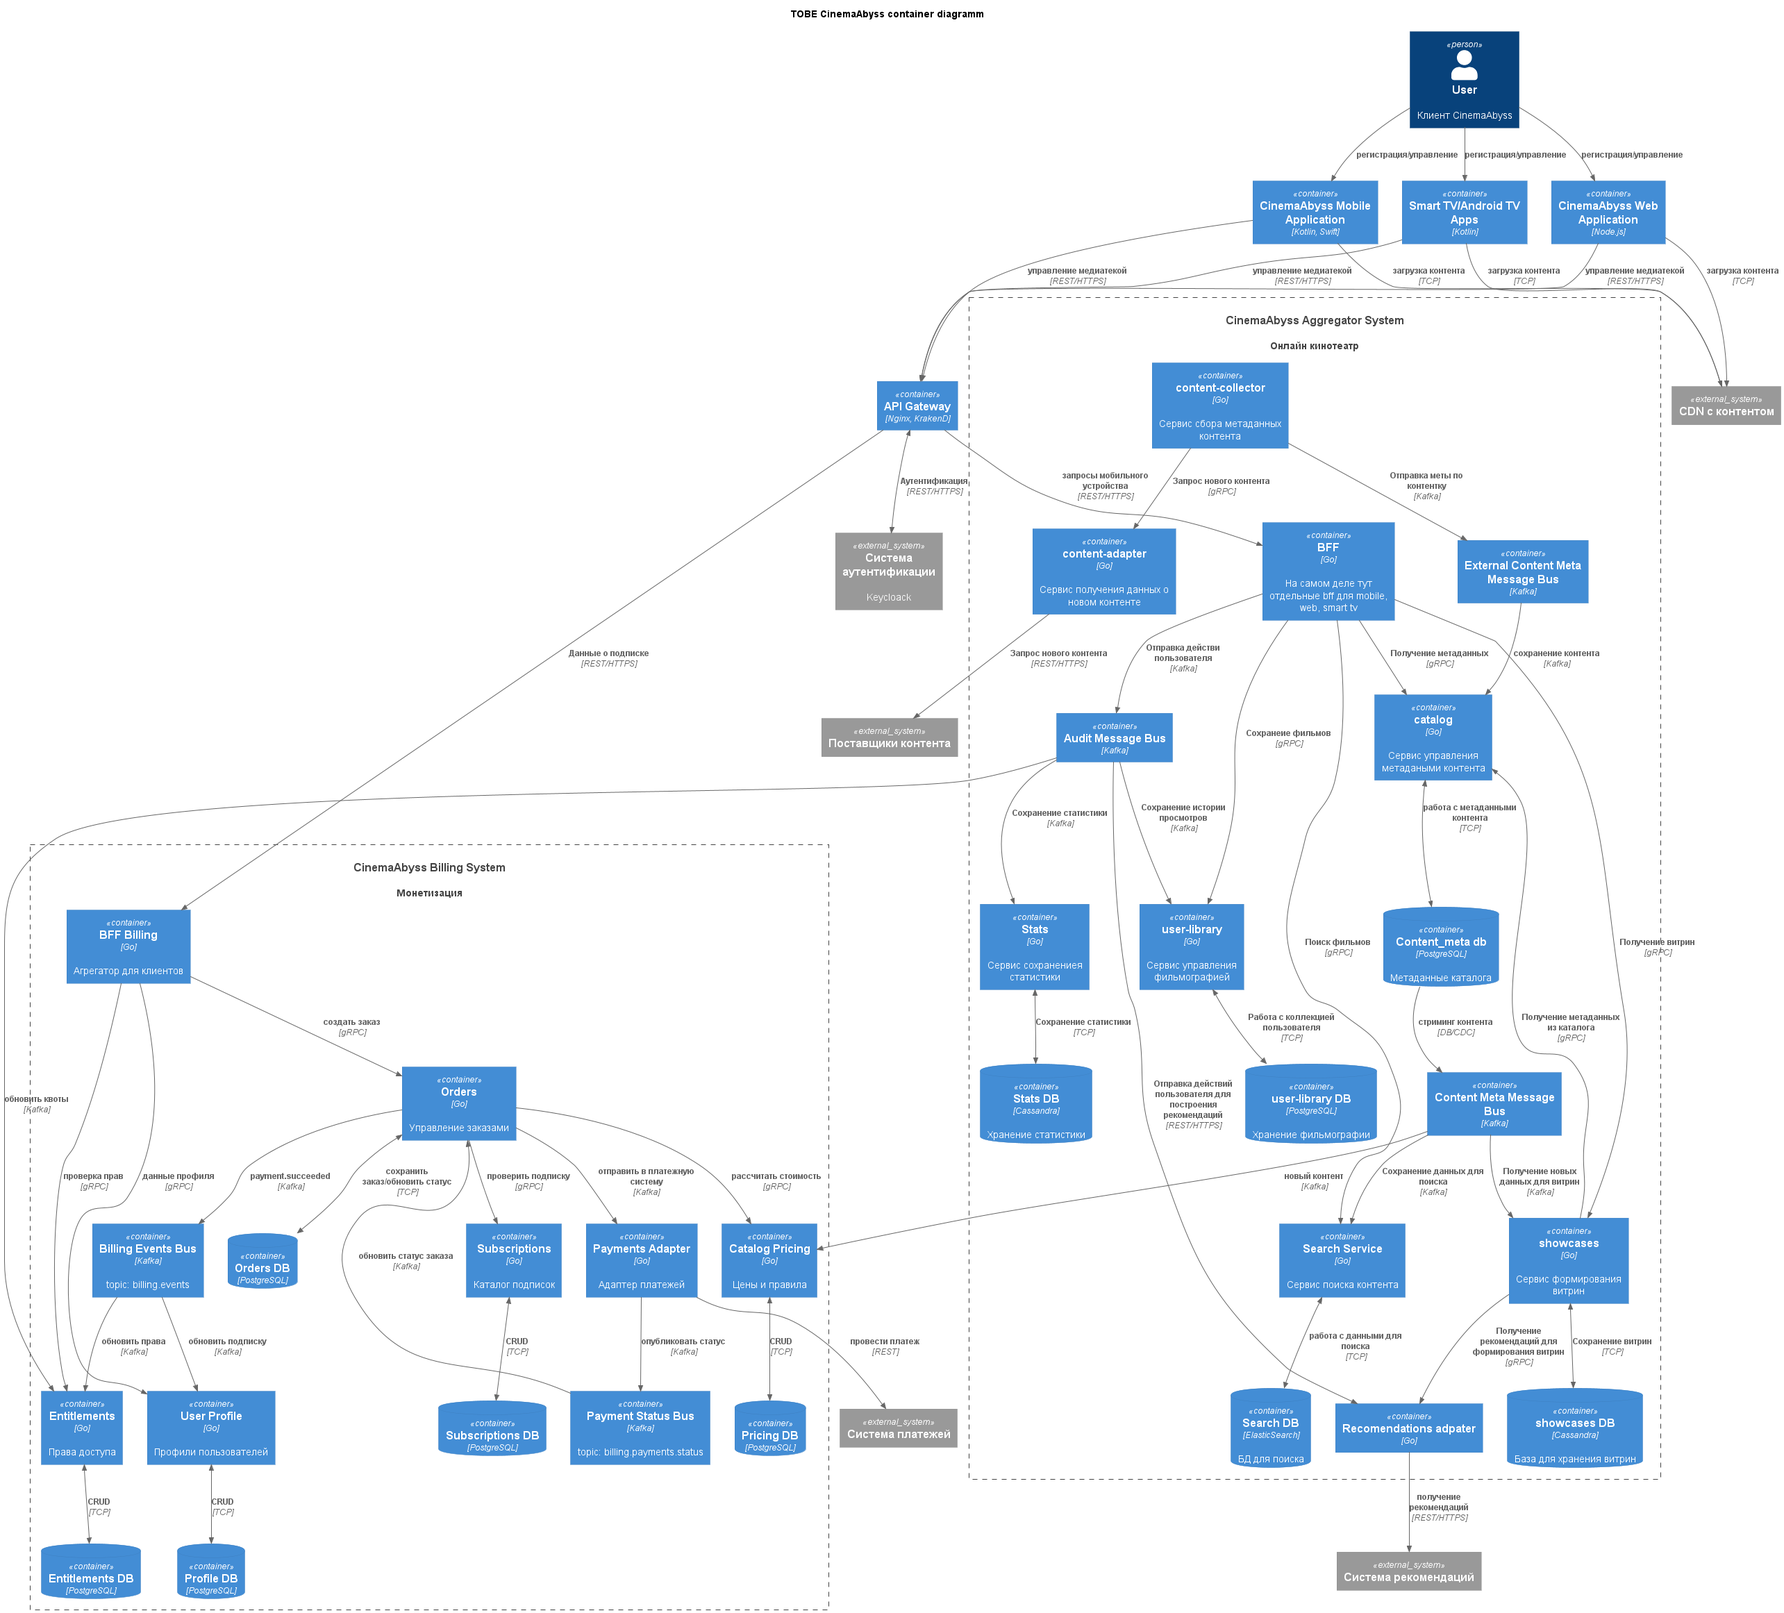
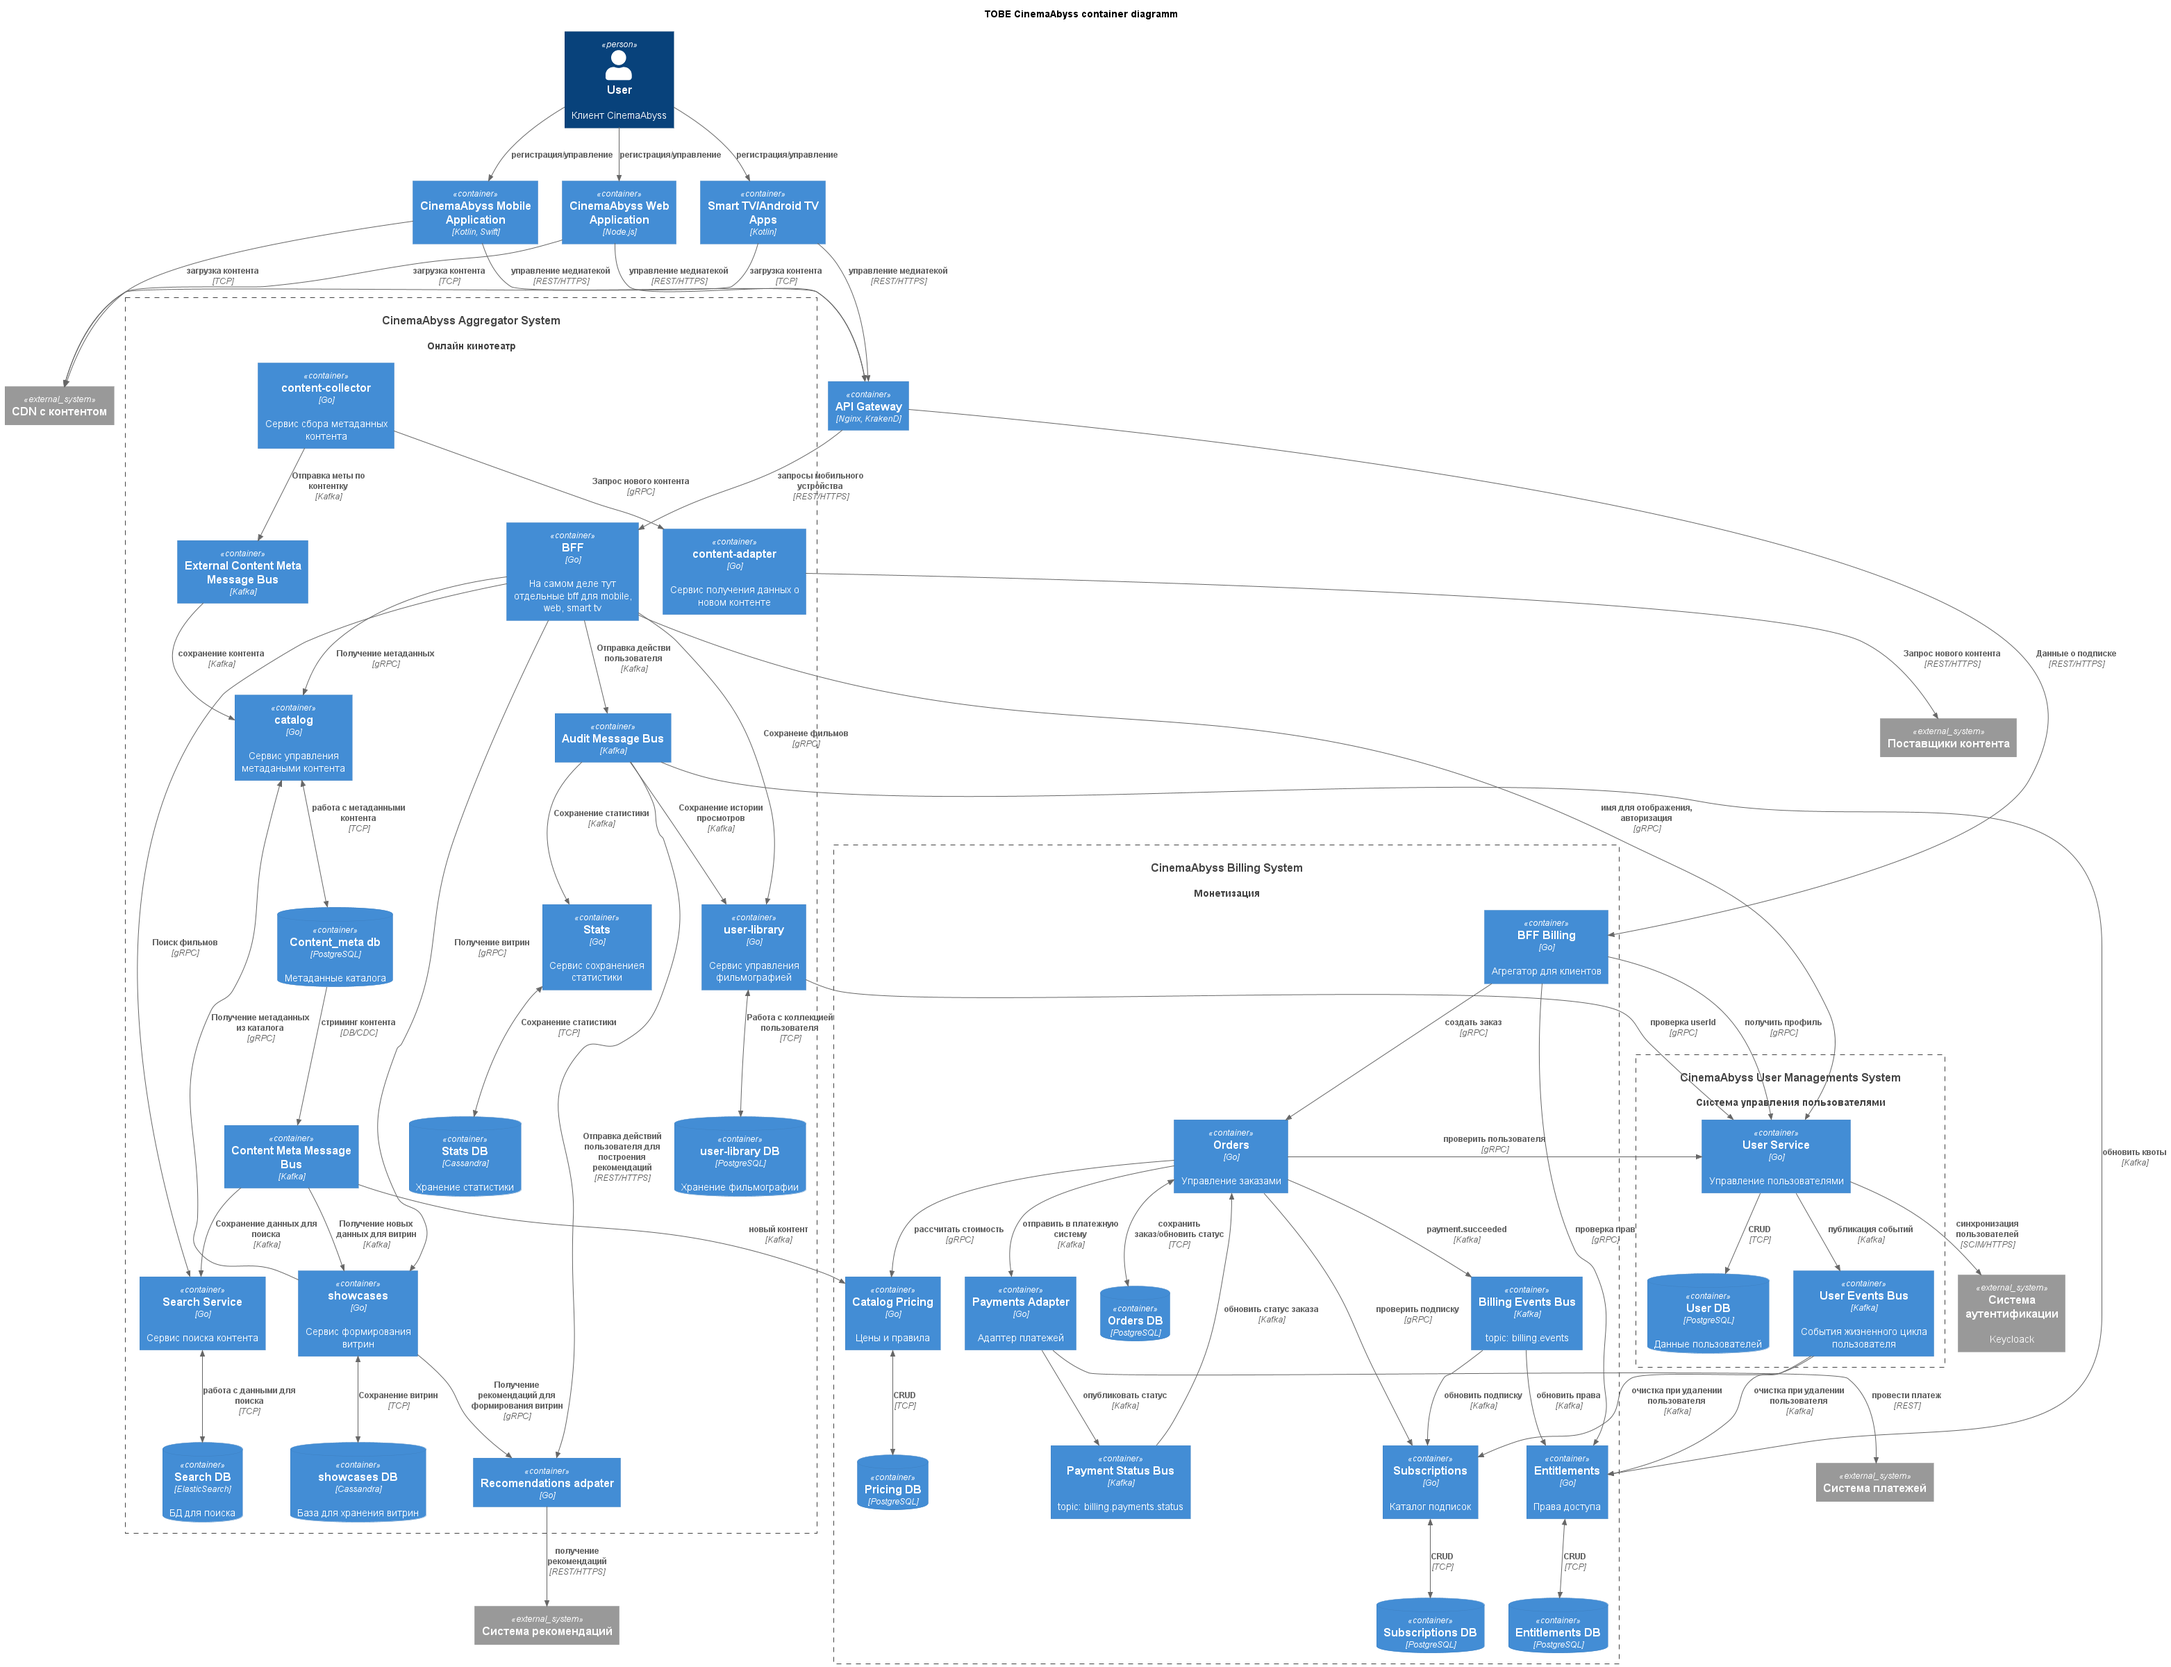
Задание 4 Заполнены хелм чарты + проведен деплой с их помощью Исправлена контейнерная диаграмма согласно замечаниям: вынесена система управления пользователями

diff --git a/Project_template.md b/Project_template.md
@@ -439,3 +439,12 @@ https://cinemaabyss.example.com/api/movies
 kubectl delete all --all -n cinemaabyss
 kubectl delete namespace cinemaabyss
 ```
+
+## Результаты выполнения задания 4
+Сервисы развернуты в minikube с применением helm-чартов
+
+### скриншот результата helm install
+![Success helm install](screenshots\helm_install.png)
+
+### скриншот получения фильмов после установки через helm
+![get movies](screenshots\get_movies_after_helm_install.png)
